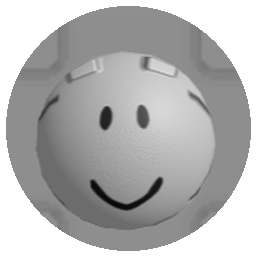
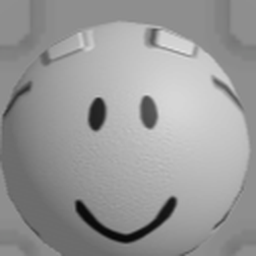
update

diff --git a/src/components/UnitIcon.css b/src/components/UnitIcon.css
@@ -1,7 +1,7 @@
 .unit-icon {
   position: relative;
   flex-shrink: 0;
-  border-radius: 50%;
+  border-radius: 14px;
   display: flex;
   align-items: center;
   justify-content: center;
@@ -10,7 +10,7 @@
 .unit-icon-glow {
   position: absolute;
   inset: -6px;
-  border-radius: 50%;
+  border-radius: 18px;
   background: radial-gradient(circle, var(--icon-glow) 0%, transparent 70%);
   opacity: 0.5;
   transition: opacity 0.2s ease;
@@ -24,8 +24,8 @@
   position: relative;
   width: 100%;
   height: 100%;
-  object-fit: contain;
-  border-radius: 50%;
+  object-fit: cover;
+  border-radius: 14px;
   background: #1a1a1d;
   border: 1px solid rgba(255, 255, 255, 0.08);
   transition: transform 0.2s ease;
@@ -39,7 +39,7 @@
   position: relative;
   width: 100%;
   height: 100%;
-  border-radius: 50%;
+  border-radius: 14px;
   background: #1a1a1d;
   border: 1px solid rgba(255, 255, 255, 0.08);
   display: flex;

diff --git a/src/components/EntityGrid.css b/src/components/EntityGrid.css
@@ -4,21 +4,21 @@
   gap: 14px;
 }
 
-/* Tall 2:6 (width:height) unit cards */
+/* Unit cards — compact, slightly-taller-than-wide trading-card proportions */
 .unit-card-grid {
   display: grid;
-  grid-template-columns: repeat(auto-fill, minmax(150px, 1fr));
+  grid-template-columns: repeat(auto-fill, minmax(160px, 1fr));
   gap: 16px;
 }
 
 .unit-card {
   position: relative;
-  aspect-ratio: 2 / 6;
+  aspect-ratio: 3 / 4;
   display: flex;
   flex-direction: column;
   align-items: center;
   gap: 6px;
-  padding: 20px 12px 16px;
+  padding: 18px 12px 14px;
   background: var(--bg-card);
   border: 1px solid var(--border);
   border-radius: var(--radius-lg);
